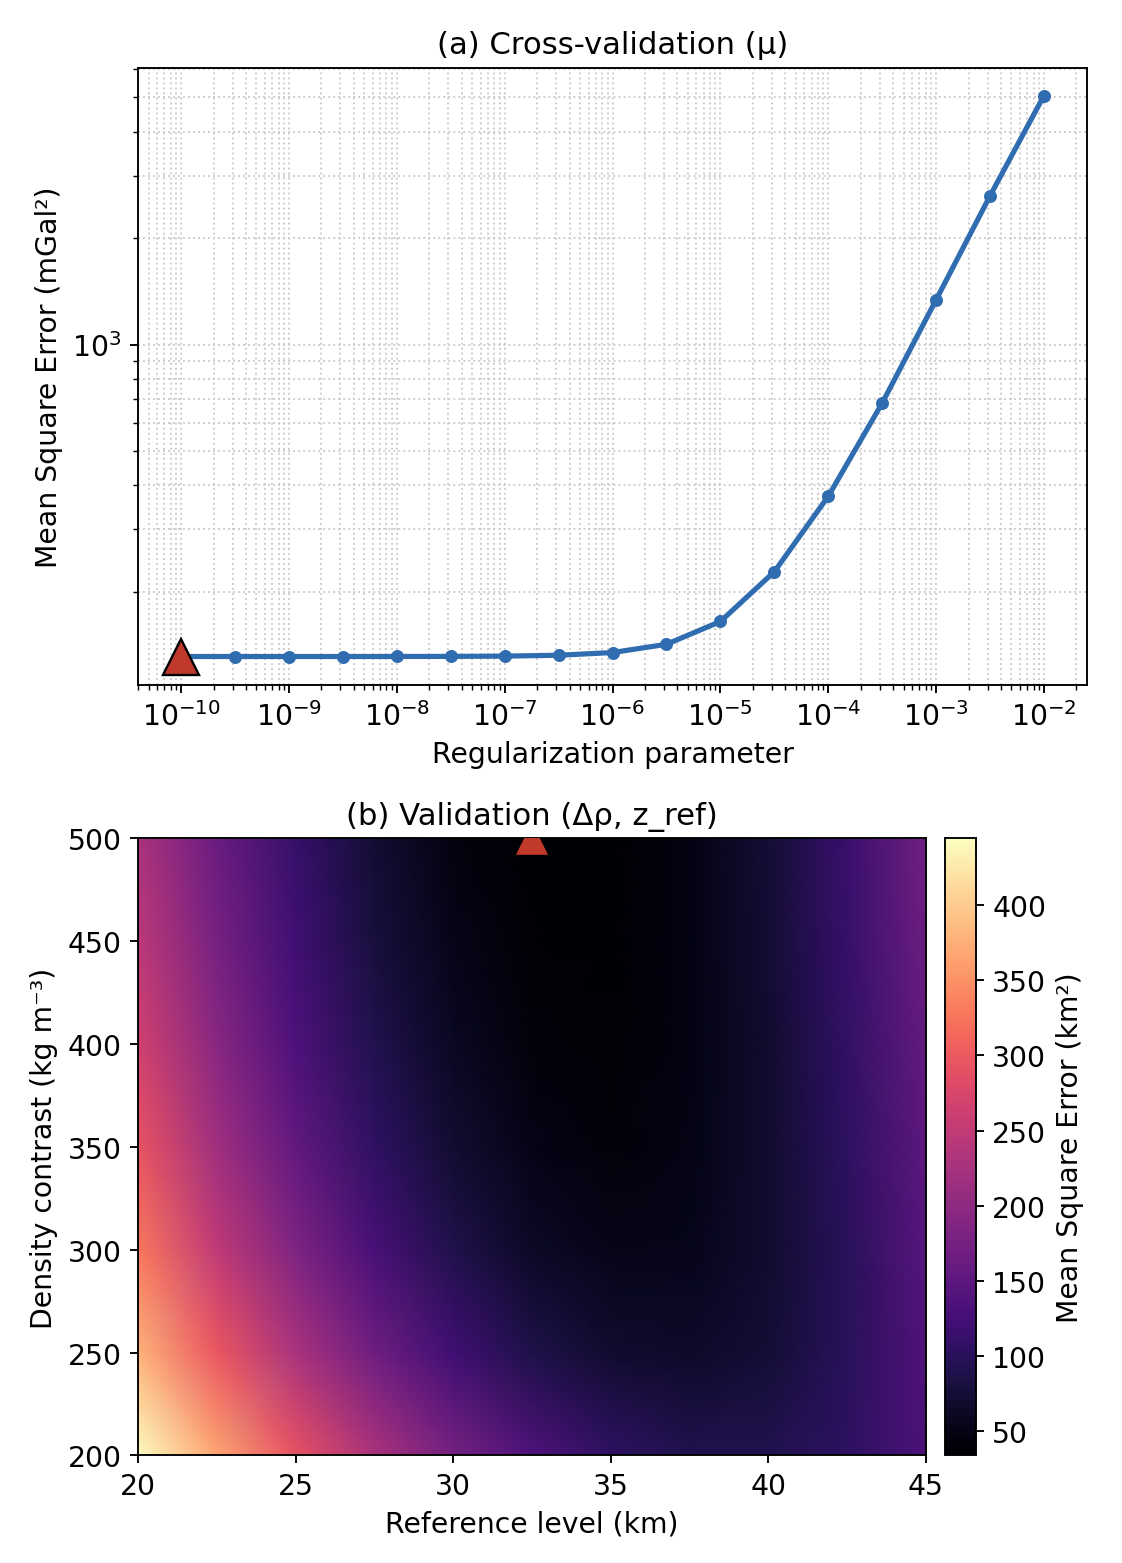
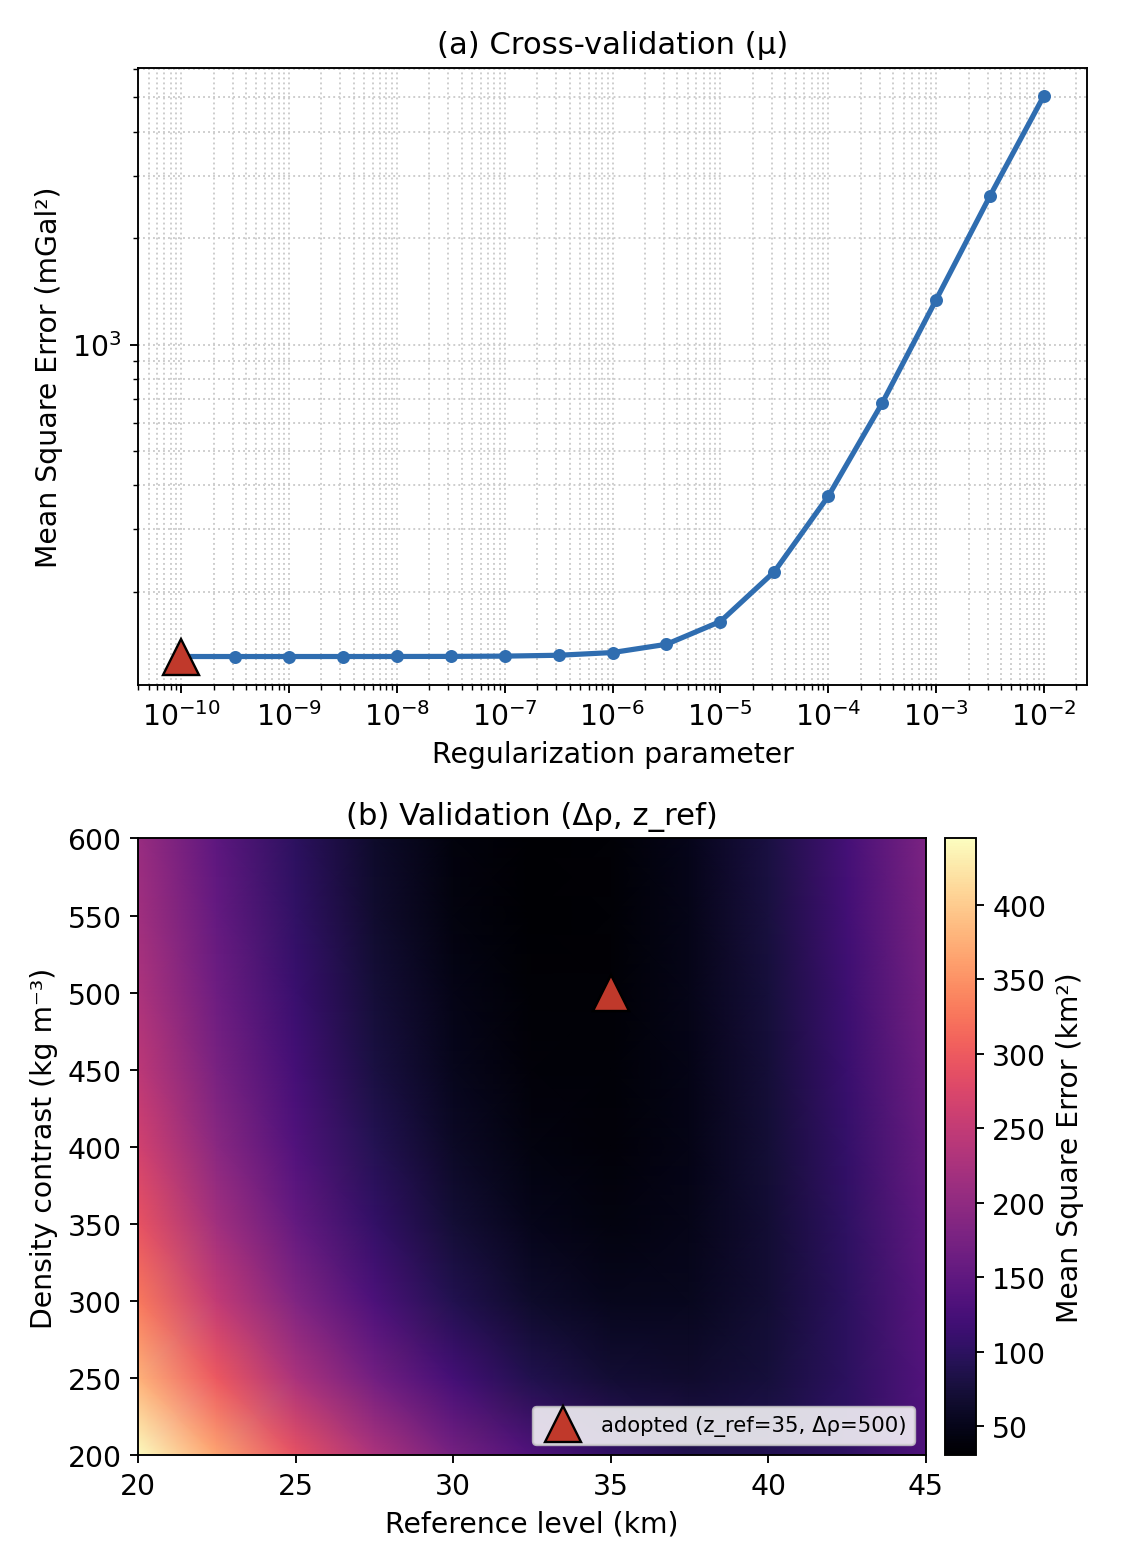
Extend Δρ axis + mark adopted point; document Δρ runaway/non-uniqueness
Extending the Δρ sweep to 600 shows the seismic misfit decreases monotonically
with Δρ (the argmin runs away to unphysical contrasts) — gravity non-uniqueness:
Δρ trades off with z_ref/Moho amplitude and absorbs unmodelled effects. We adopt
a physical Δρ=500 (cf. U&B 400), z_ref=35, confirmed by AusMoho (bias -0.1 km).

plot_hyperparam_diag.py re-plots the U&B-style diagnostic marking the ADOPTED
(35,500) point inside the extended frame; calibrate.py saves the sweep npz and
calls it. Featured model restored via calibrate --only-final. Manuscript §4 updated.

diff --git a/moho_indonesia/plot_hyperparam_diag.py b/moho_indonesia/plot_hyperparam_diag.py
@@ -1,0 +1,86 @@
+"""
+plot_hyperparam_diag — U&B (2017) Fig. 10 style hyperparameter diagnostics,
+marking the ADOPTED (physically reasonable) point rather than the raw argmin.
+
+The seismic misfit decreases monotonically with Delta-rho (a Delta-rho vs z_ref /
+Moho-amplitude trade-off), so the calibration argmin runs away to unphysically
+high Delta-rho; we therefore adopt a physical Delta-rho (500 kg/m^3, cf. Uieda &
+Barbosa 2017 ~400) confirmed by the independent AusMoho comparison.
+
+Reads the sweep arrays from `hyperparameters_sweep.npz` if present; otherwise
+reconstructs them from a calibrate.py --fine log (in run order) and saves the npz.
+
+Run:  python moho_indonesia/plot_hyperparam_diag.py [calibrate_log]
+"""
+from __future__ import annotations
+
+import pathlib
+import re
+import sys
+
+import numpy as np
+import matplotlib
+matplotlib.use("Agg")
+import matplotlib.pyplot as plt          # noqa: E402
+
+sys.path.insert(0, str(pathlib.Path(__file__).resolve().parent))
+import config as C          # noqa: E402
+
+ADOPTED_ZREF, ADOPTED_DRHO = 35.0, 500.0        # physically reasonable, AusMoho-validated
+NPZ = C.DATA_PROCESSED / "hyperparameters_sweep.npz"
+
+
+def _reconstruct_from_log(logpath):
+    text = pathlib.Path(logpath).read_text().splitlines()
+    mu_mse = [float(re.search(r"testMSE=\s*([\d.]+)", l).group(1))
+              for l in text if "testMSE" in l]
+    rms = [float(re.search(r"seisRMS=\s*([\d.]+)", l).group(1))
+           for l in text if "seisRMS" in l]
+    mu_set = C.MU_VALUES
+    zref, drho = np.asarray(C.ZREF_VALUES), np.asarray(C.DRHO_VALUES)
+    assert len(mu_mse) == len(mu_set), (len(mu_mse), len(mu_set))
+    assert len(rms) == len(zref) * len(drho), (len(rms), len(zref) * len(drho))
+    mse_surface = (np.array(rms) ** 2).reshape(len(zref), len(drho))  # (z_ref, drho)
+    np.savez(NPZ, mu_set=mu_set, mu_mse=mu_mse, zref=zref, drho=drho,
+             mse_surface=mse_surface)
+    return mu_set, np.array(mu_mse), zref, drho, mse_surface
+
+
+def main(logpath=None):
+    if NPZ.exists() and logpath is None:
+        z = np.load(NPZ)
+        mu_set, mu_mse, zref, drho, mse_surface = (
+            z["mu_set"], z["mu_mse"], z["zref"], z["drho"], z["mse_surface"])
+    else:
+        mu_set, mu_mse, zref, drho, mse_surface = _reconstruct_from_log(logpath)
+
+    plt.rcParams.update({"font.size": 12, "axes.titlesize": 13})
+    fig, (ax1, ax2) = plt.subplots(2, 1, figsize=(6.6, 9.2))
+
+    # (a) mu cross-validation
+    ax1.loglog(mu_set, mu_mse, "-", color="#2f6db0", lw=2.2)
+    ax1.loglog(mu_set, mu_mse, "o", color="#2f6db0", ms=4.5)
+    imin = int(np.argmin(mu_mse))
+    ax1.plot(mu_set[imin], mu_mse[imin], "^", color="#c0392b", ms=15, mec="k", zorder=6)
+    ax1.set(xlabel="Regularization parameter", ylabel="Mean Square Error (mGal²)",
+            title="(a) Cross-validation (μ)")
+    ax1.grid(True, which="both", ls=":", color="0.8")
+    ax1.set_axisbelow(True)
+
+    # (b) (z_ref, drho) surface — mark the ADOPTED point (inside the frame)
+    im = ax2.pcolormesh(zref, drho, mse_surface.T, shading="gouraud", cmap="magma")
+    ax2.plot(ADOPTED_ZREF, ADOPTED_DRHO, "^", color="#c0392b", ms=15, mec="k",
+             zorder=6, label="adopted (z_ref=35, Δρ=500)")
+    ax2.set(xlabel="Reference level (km)", ylabel="Density contrast (kg m⁻³)",
+            title="(b) Validation (Δρ, z_ref)")
+    ax2.legend(loc="lower right", fontsize=9, framealpha=0.85)
+    fig.colorbar(im, ax=ax2, label="Mean Square Error (km²)", pad=0.02)
+
+    fig.tight_layout()
+    out = C.FIGURES / "hyperparameters.png"
+    fig.savefig(out, dpi=170)
+    print("Wrote", out, "| adopted z_ref=35, drho=500 (argmin runs away to high drho)")
+
+
+if __name__ == "__main__":
+    main(sys.argv[1] if len(sys.argv) > 1 else None)

diff --git a/moho_indonesia/calibrate.py b/moho_indonesia/calibrate.py
@@ -197,7 +197,14 @@ def main(gravity_source="faa", sediments=False, fine=False, only_final=False):
     hp = {"mu": float(best_mu), "z_ref_km": float(z_ref), "drho": float(drho)}
     C.HYPERPARAMS_JSON.write_text(json.dumps(hp, indent=2))
     if mu_curve is not None:
-        _plot_diagnostics(np.array(mu_curve), mse_surface, best_mu, z_ref, drho)
+        # Save the sweep arrays and render the diagnostic marking the ADOPTED
+        # (physically reasonable) point — the seismic argmin runs away to high Δρ.
+        np.savez(C.DATA_PROCESSED / "hyperparameters_sweep.npz",
+                 mu_set=np.asarray(MU_SET), mu_mse=np.asarray(mu_curve),
+                 zref=np.asarray(ZREF_SET), drho=np.asarray(DRHO_SET),
+                 mse_surface=mse_surface)
+        import plot_hyperparam_diag
+        plot_hyperparam_diag.main()
 
     interp = RegularGridInterpolator((lat2d[:, 0], lon2d[0, :]), moho,
                                      bounds_error=False, fill_value=np.nan)

diff --git a/moho_indonesia/config.py b/moho_indonesia/config.py
@@ -90,7 +90,7 @@ MU_VALUES = np.logspace(-10, -2, 17)
 # Step 2: reference depth z_ref (km) and density contrast drho (kg/m^3) — chosen
 # by validation against the seismic Moho points (MOHO_SEISMIC).
 ZREF_VALUES = np.arange(20.0, 45.0 + 0.1, 2.5)     # km
-DRHO_VALUES = np.arange(200.0, 500.0 + 0.1, 50.0)  # kg/m^3
+DRHO_VALUES = np.arange(200.0, 600.0 + 0.1, 50.0)  # kg/m^3 (to 600 so the optimum sits inside the frame)
 
 # Gauss-Newton / Bott iteration controls.
 MAX_ITERATIONS = 50

diff --git a/manuscript/moho-indonesia-manuscript-draft.md b/manuscript/moho-indonesia-manuscript-draft.md
@@ -109,7 +109,7 @@ We invert on $0.5^{\circ}$ and $0.25^{\circ}$ grids with both the GOCO06S satell
 
 ## 4. Results
 
-**Calibrated hyperparameters.** Cross-validation selects μ = 10⁻¹⁰ (essentially unregularized, as in the original study). The (z_ref, Δρ) validation surface has a **broad minimum** (Figure 6): z_ref ≈ 30–40 km and Δρ ≈ 400–500 kg m⁻³ are near-equivalent (seismic RMS within ~0.3 km). Within this plateau we adopt **z_ref = 35 km, Δρ = 500 kg m⁻³**, which also gives the smallest bias against the *independent* AusMoho model (−0.1 km; see §5) — using the independent dataset to break the near-degeneracy of the seismic calibration.
+**Calibrated hyperparameters.** Cross-validation selects μ = 10⁻¹⁰ (essentially unregularized, as in the original study). The (z_ref, Δρ) validation surface (Figure 6) has a **broad, flat minimum**: z_ref ≈ 30–40 km fits well over a wide range of Δρ. Critically, the seismic misfit **decreases monotonically with increasing Δρ** and does not turn over within a physical range — the calibration argmin runs away to unphysically high density contrasts (>600 kg m⁻³, RMS still falling). This reflects the well-known non-uniqueness of gravity inversion: Δρ trades off against z_ref and the Moho amplitude, and with near-zero regularization and simplified corrections Δρ also absorbs unmodelled effects (sediments, the subducting slab, the constant-height approximation). We therefore do **not** adopt the raw seismic minimum; instead we fix a **physically reasonable Δρ = 500 kg m⁻³** (a typical crust–mantle contrast, comparable to the 400 kg m⁻³ of Uieda & Barbosa 2017 for South America) with **z_ref = 35 km**. This choice is independently supported by the AusMoho comparison, which gives near-zero bias (−0.1 km; §5), whereas the runaway high-Δρ solutions degrade that independent agreement. Δρ should thus be read as an *effective* contrast, not a tightly determined physical quantity.
 
 **Moho model.** The preferred GOCO06S model at 0.5° yields Moho depths of ~7–59 km. The crust is thick (35–45 km) beneath the Sunda volcanic arc (Sumatra, Java), the Sulawesi and Banda arcs, and the Papuan highlands, and thin (10–20 km) beneath the deep marginal basins (e.g. Banda Sea, Celebes/Makassar) and the oceanic domains. The 35-km contour closely outlines the main arc/continental blocks (Figure 1).
 

diff --git a/.brain/wiki/log.md b/.brain/wiki/log.md
@@ -202,3 +202,10 @@ Allowed types: `setup`, `ingest`, `query`, `lint`, `maintenance`, `export`, `imp
 - **Manuscript:** authors set to Muhammad Zuhdi, Sudarmaji, Wiwit Suryanto (corresponding), all Geophysics Laboratory, Universitas Gadjah Mada, Yogyakarta. Methods §3 rewritten with equations (1)-(11): gravity disturbance, tesseroid potential/attraction integrals, forward map, Bouguer/sediment corrections, misfit + Tikhonov + Gauss-Newton system, Bott diagonal Jacobian, update, and the mu=0 Bott special case.
 - **New figure:** `moho_indonesia/plot_processing_chain.py` -> `processing_chain.png` (U&B Fig. 8 equivalent: disturbance, topography, topographic effect, Bouguer, CRUST1.0 sediment effect, sediment-free Bouguer). Added to the figure list + referenced in §3.3.
 - **Figures committed to the repo** (previously untracked): moho_full_clean/west/east, validation_seismic, hyperparameters, ausmoho_comparison, processing_chain.
+
+## [2026-07-30] maintenance | Δρ runaway finding + adopted-point diagnostic figure
+
+- **Trigger:** user asked to extend the Δρ axis so the triangle sits inside the frame (like U&B Fig.10), and whether Δρ=500 (> U&B's ~400) makes sense.
+- **Finding (important):** extending DRHO_VALUES to 600 shows the seismic misfit **decreases monotonically with Δρ** (500→5.83, 550→5.64, 600→5.51 km) — the calibration argmin RUNS AWAY to unphysical Δρ. Classic gravity non-uniqueness: Δρ trades off with z_ref/Moho amplitude and absorbs unmodelled effects (sediments, slab, constant height, μ≈0). So Δρ=500 is an *effective* contrast, not tightly determined; we adopt a physical Δρ=500 (cf. U&B 400) + z_ref=35, confirmed by AusMoho (bias -0.1 km; runaway solutions degrade the independent agreement).
+- **Figure:** `moho_indonesia/plot_hyperparam_diag.py` re-plots the U&B-style diagnostic marking the ADOPTED (35, 500) point (now inside the extended Δρ≤600 frame); reads `hyperparameters_sweep.npz` (saved by calibrate --fine) or reconstructs from a calibrate log. calibrate.py now saves the sweep npz and calls this plotter.
+- **Featured model restored** to z_ref=35, Δρ=500 via `calibrate --only-final` (the --fine sweep had set the runaway 32.5/600). Manuscript §4 updated with the runaway/non-uniqueness discussion.
